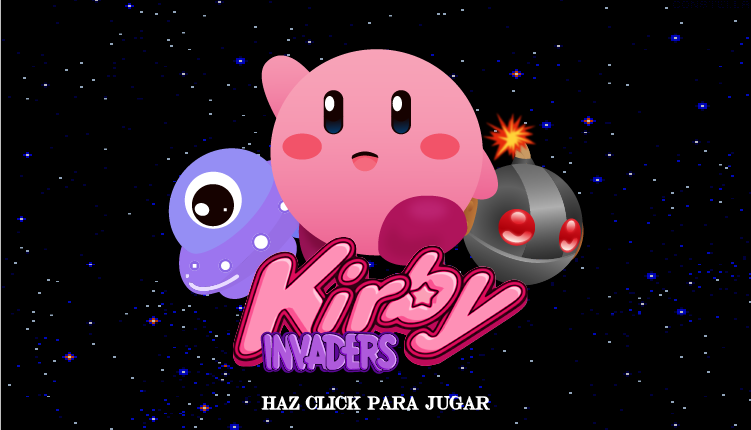
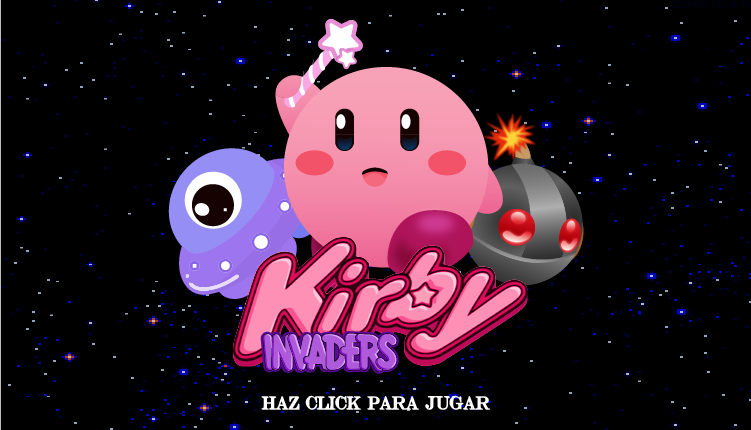
Juego terminado

Changed region(s): [[0.3369, 0.0302, 0.6738, 0.6349], [0.3981, 0.514, 0.4288, 0.6047], [0.6125, 0.2116, 0.6431, 0.2721]]

diff --git a/public/js/Logica.js b/public/js/Logica.js
@@ -16,6 +16,7 @@ class Logica{
     this.barra=this.app.loadImage('/imgs/barra.png');
     this.perdiste=this.app.loadImage('/imgs/perdiste.png');
     this.ganaste=this.app.loadImage('/imgs/ganaste.png');
+    this.instrucciones=this.app.loadImage('/imgs/instrucciones.png');
     }
 
     pintar(){
@@ -26,7 +27,7 @@ class Logica{
                     this.app.image(this.inicio,this.app.width/2,this.app.height/2);
                 break;
             case 0:
-                    this.app.background(255,255,0);
+                    this.app.image(this.instrucciones,this.app.width/2,this.app.height/2);
                     
                 break;
         
@@ -95,7 +96,7 @@ class Logica{
                  
                  this.poderes= [];
                  this.generarPoderes=this.generarPoderes.bind(this);
-                 setInterval(this.generarPoderes,3000);
+                 setInterval(this.generarPoderes,10000);
                 break;
         
             case 1:
@@ -127,11 +128,30 @@ class Logica{
 
 
         for (let i = 0; i < this.enemigos.length; i++) {
+
+            if(this.enemigos[i] instanceof Bala){
             if(this.enemigos[i].y>=(this.app.height+30)){
                 this.enemigos.splice(i,1);
+
+            }
+
+            }
+                if(this.enemigos[i] instanceof Bala2){
+                    if(this.enemigos[i].y>=(this.app.height)){
+                    this.morir=true;
+                    this.enemigos.splice(i,1);
+                   
+                }
+                if(this.enemigos[i].y>=(this.app.height-200)){
+                
+                   this.enemigos[i].estado=1;
+                }else{
+                this.enemigos[i].estado=0;
+                }
             }
             
-        }
+        
+    }
 
         for (let i = 0; i < Personaje.estrellas.length; i++) {
             if(Personaje.estrellas[i].y<=(-30)){
@@ -148,7 +168,7 @@ class Logica{
             this.puntaje=0;
         }
 
-        if(this.puntaje>=3 && this.tiempo>0){
+        if(this.puntaje>=10 && this.tiempo>0){
             this.ganar=true;
         }
 
@@ -223,7 +243,7 @@ class Logica{
             for (let j = 0; j < this.enemigos.length; j++) { 
             let perso= this.personaje;
             let enemigo= this.enemigos[j];
-            if(this.app.dist(perso.x,perso.y,enemigo.x,enemigo.y)<=20){
+            if(this.app.dist(perso.x,perso.y,enemigo.x,enemigo.y)<=30){
                 enemigo.stop();
                 this.enemigos.splice(j,1);
                 this.vidas--;
@@ -236,10 +256,9 @@ class Logica{
         for (let j = 0; j < this.poderes.length; j++) { 
             let perso= this.personaje;
             let poder= this.poderes[j];
-            if(this.app.dist(perso.x,perso.y,poder.x,poder.y)<=20){
+            if(this.app.dist(perso.x,perso.y,poder.x,poder.y)<=30){
                 poder.stop();
                 this.poderes.splice(j,1);
-                this.puntaje+=2;
                 this.poder=true;
                 return;
             }

diff --git a/public/js/Enemigo.js b/public/js/Enemigo.js
@@ -2,9 +2,11 @@ class Enemigo{
 
     constructor(app){
         this.app=app;
-        this.x=this.app.random(this.app.width);
+        this.x=this.app.random(30,720);
         this.y=-100;
         this.imagen=[];
+        this.imagen2=[];
+        this.estado=0;
         this.punt=0;
         this.animacion=this.animacion.bind(this);
         this.animar=setInterval(this.animacion,200);
@@ -15,7 +17,15 @@ class Enemigo{
 
 
 pintar(){
-this.app.image(this.imagen[this.punt],this.x,this.y);
+    switch (this.estado) {
+        case 0:
+            this.app.image(this.imagen[this.punt],this.x,this.y);
+            break;
+            
+        case 1:
+                this.app.image(this.imagen2[this.punt],this.x,this.y);
+            break;
+    }
 }
 
 animacion(){

diff --git a/public/js/Bala.js b/public/js/Bala.js
@@ -6,6 +6,12 @@ class Bala extends Enemigo{
            this.imagen.push(this.app.loadImage('/imgs/eneN' + (i+1)+ '.png'));
             
         }
+        for (let i = 0; i < 4; i++) {
+            this.imagen2.push(this.app.loadImage('/imgs/eneN' + (i+1)+ '.png'));
+             
+         }
+        
+        
     }
 
 

diff --git a/public/js/Bala2.js b/public/js/Bala2.js
@@ -6,6 +6,10 @@ class Bala2 extends Enemigo{
            this.imagen.push(this.app.loadImage('/imgs/bomb' + (i+1)+ '.png'));
             
         }
+        for (let i = 0; i < 4; i++) {
+            this.imagen2.push(this.app.loadImage('/imgs/bombP' + (i+1)+ '.png'));
+             
+         }
     }
 
 

diff --git a/public/js/Poder.js b/public/js/Poder.js
@@ -6,7 +6,7 @@ class Poder{
         this.y=-100;
         this.mover=this.mover.bind(this);
         this.moviendose=setInterval(this.mover,20);
-        this.imagen=this.app.loadImage('/imgs/kirDown4.png');
+        this.imagen=this.app.loadImage('/imgs/poder.png');
     }
 
 
